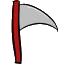
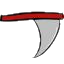
added scythe

diff --git a/js/player.js b/js/player.js
@@ -84,14 +84,19 @@ function buildInventory(i){
 		buttons.add(invButton1);
 	}
 	if(i[0][0] == 2){
-		var invButton2 = game.add.image(game.camera.width/2 - 140 + 265 + game.camera.x, game.camera.height - 60 + game.camera.y, 'corn');
+		var invButton2 = game.add.image(game.camera.width/2 - 140 + 265 + game.camera.x, game.camera.height - 60 + game.camera.y, 'cornPlant');
 		invButton2.scale.setTo(.4,.4);
 		buttons.add(invButton2);
-	}/* //etc, continue as needed
+	}
 	if(i[0][j] == 3){
-		var invButton3 = new Image(game, xplace, yplace, 'pumpSeed');
+		var invButton3 = game.add.image(game.camera.width/2 - 140 + 265 + game.camera.x, game.camera.height - 60 + game.camera.y, 'pumpkinPlant');
+		invButton3.scale.setTo(.4,.4);
 		buttons.add(invButton3);
-	}*/
+	}
+	if(i[0][j] == 4){
+		var invButton4 = game.add.image(game.camera.width/2 - 140 + 265 + game.camera.x, game.camera.height - 60 + game.camera.y, 'scythe');
+		buttons.add(invButton3);
+	}
     for(var j = 1;j<10;j++){
 		if(i[0][j] == 1){
 			var invButton1 = game.add.image(game.camera.width/2 - 140 + 26.5*j + game.camera.x, game.camera.height - 60 + game.camera.y, 'scythe');
@@ -99,14 +104,20 @@ function buildInventory(i){
 			buttons.add(invButton1);
 		}
 		if(i[0][j] == 2){
-			var invButton2 = game.add.image(game.camera.width/2 - 140 + 26.5*j + game.camera.x, game.camera.height - 60 + game.camera.y, 'corn');
+			var invButton2 = game.add.image(game.camera.width/2 - 140 + 26.5*j + game.camera.x, game.camera.height - 60 + game.camera.y, 'cornPlant');
 			invButton2.scale.setTo(.4,.4);
 			buttons.add(invButton2);
-		}/*
+		}
 		if(i[0][j] == 3){
-			var invButton3 = new Image(game, xplace, yplace, 'pumpSeed');
+			var invButton3 = game.add.image(game.camera.width/2 - 140 + 26.5*j + game.camera.x, game.camera.height - 60 + game.camera.y, 'pumpkinPlant');
+			invButton3.scale.setTo(.4,.4);
 			buttons.add(invButton3);
-		}*/
+		}
+		if(i[0][j] == 4){
+			var invButton4 = game.add.image(game.camera.width/2 - 140 + 26.5*j + game.camera.x, game.camera.height - 60 + game.camera.y, 'scythe');
+			invButton4.scale.setTo(.4,.4);
+			buttons.add(invButton4);
+		}
 	}
 	var inventoryText = i[1][1]+'      '+i[1][2]+'      '+i[1][3]+'      '+i[1][4]+'      '+i[1][5]+'      '+i[1][6]+'      '+i[1][7]+'      '+i[1][8]+'      '+i[1][9]+'      '+i[1][0];
     inventoryUI = game.add.text(game.camera.width/2 - 110 + game.camera.x, game.camera.height - 30 + game.camera.y, inventoryText, { font: '12px Arial', fill: '#fff' });

diff --git a/js/main.js b/js/main.js
@@ -179,7 +179,7 @@ Game.townstate.prototype = {
 		game.load.image('player', 'assets/player.png');
 		game.load.image('scarecrow', 'assets/scarecrow.png');
 		game.load.image('crow', 'assets/crow.png');
-		game.load.image('pumpkin', 'assets/pumkinDrop.png');
+		game.load.image('pumpkin', 'assets/pumpkinDrop.png');
 		game.load.image('cornPlant', 'assets/cornPlant.png');
 		game.load.image('horseman', 'assets/horselessHeadman.png');
 		game.load.image('pumpkinPlant', 'assets/pumpkinPlant.png');
@@ -203,12 +203,13 @@ Game.townstate.prototype = {
 		player = new Player(game, town, 200, 200);
 		gardenTime = 0;
 		I = new Item(game, 600, 210, 'yellow', false, 1, 1);
-		J = new Item(game, 400, 270, 'green', false, 2, 2);
-		J = new Item(game, 400, 270, 'green', false, 2, 2);
-		J = new Item(game, 400, 270, 'green', false, 2, 2);
-		J = new Item(game, 400, 270, 'green', false, 2, 2);
-		J = new Item(game, 400, 270, 'green', false, 2, 2);
-		K = new Item(game, 200, 300, 'magenta', false, 3, 3);
+		J = new Item(game, 400, 270, 'corn', false, 2, 2);
+		J = new Item(game, 400, 270, 'corn', false, 2, 2);
+		J = new Item(game, 400, 270, 'corn', false, 2, 2);
+		J = new Item(game, 400, 270, 'corn', false, 2, 2);
+		J = new Item(game, 400, 270, 'corn', false, 2, 2);
+		K = new Item(game, 200, 300, 'pumpkin', false, 3, 3);
+		K = new Item(game, 250, 250, 'scythe', false, 4, 4);
 		shop = new Shop(game, 400, 200, 'blue', [[1, 2, 3], [5, 10, 20]]);
 	},
 

diff --git a/js/playerProjectiles/scythe.js b/js/playerProjectiles/scythe.js
@@ -1,27 +1,34 @@
 //Scythe.js
 Scythe.prototype = Object.create(Proj.prototype);
 Scythe.prototype.constructor = Scythe;
-Scythe.prototype.moveSpeed = 2;
-Scythe.prototype.lifetime = .5;
+Scythe.prototype.moveSpeed = 0;
+Scythe.prototype.lifetime = 0.2;
 Scythe.prototype.damage = 5;
-Scythe.prototype.size = 10;
+Scythe.prototype.size = 1;
 Scythe.prototype.angle = 0;
 Scythe.prototype.isHoming = 0;
 Scythe.prototype.isPlayers = 1;
-Proj.prototype.key = 'blue';
-Proj.prototype.tag = "Scythe";
-
-function Scythe(game, x, y) {
-	Phaser.Sprite.call(this, game, x, y, key);
-	this.anchor.set(0.5, 0.5);
+Scythe.prototype.key = 'scythe';
+Scythe.prototype.tag = "Scythe";
+var isScythe = false;
+function Scythe(game) {
+	isScythe = true;
+	Phaser.Sprite.call(this, game, player.body.x, player.body.y, this.key);
 	game.physics.arcade.enable(this);
+	this.anchor.set(0.5, 1);
 	projectiles.add(this);
-	this.scale.set(size,size);
+	this.scale.set(this.size,this.size);
+	this.angle = player.angle;
 }
 
 
-Scythe.prototype.move() {
+Scythe.prototype.move = function() {
+	this.body.x = player.body.x;
+	this.body.y = player.body.y;
+	this.angle += 3;
+}
 
-	
-
+Scythe.prototype.end = function(){
+	isScythe = false;
+	this.destroy();
 }

diff --git a/js/item.js b/js/item.js
@@ -74,21 +74,8 @@ function useItem(itemNum, inv_slot){
 		plantPlant(currField, inv_slot, Corn);
 	if (itemNum == 3)
 		plantPlant(currField, inv_slot, Pumpkin);
-
-
-	/*
-		//Scythe
-		case 2: 
-			useScythe();
-			break;
-		//Gun: useGun(1) = basic gun, useGun(2) = more advanced, etc.
-		case 3: 
-			useGun(1);
-			break;
-		case 4: 
-			useGun(2);
-			break;
-			*/
+	if (itemNum == 4)
+		useScythe();
 }
 
 function useShovel(field) {
@@ -107,6 +94,11 @@ function useShovel(field) {
 	if( ((mouseX > playerX && playerX+96>mouseX) || (mouseX < playerX && playerX-96<mouseX)) && ((mouseY > playerY && playerY+96>mouseY) || (mouseY<playerY && playerY-96<mouseY))) {
 		field.add(Plant, 0, x, y);
 	}
+}
+
+function useScythe(){
+	if(!isScythe)
+		var scythe = projectiles.add(new Scythe(game));
 }
 
 function plantPlant(field, inv_slot, plant) {

diff --git a/index.html b/index.html
@@ -10,6 +10,7 @@
     <script type = "text/javascript" src = "js/player.js"></script>
     <script type = "text/javascript" src = "js/field.js"></script>
     <script type = "text/javascript" src = "js/plants/projectile.js"></script>
+    <script type = "text/javascript" src = "js/playerProjectiles/scythe.js"></script>
     <script type = "text/javascript" src = "js/plants/example/exampleProjectile.js"></script>
 
     <script type = "text/javascript" src = "js/plants/mob.js"></script>

diff --git a/js/plants/projectile.js b/js/plants/projectile.js
@@ -35,10 +35,14 @@ Proj.prototype.update = function(farm, time) {
 	this.move();
 
 	if(this.lifetime <= 0) {
-		this.destroy();
+		this.end();
 	}
 	this.lifetime -= game.time.elapsed/1000;
 
+}
+
+roj.prototype.end = function() {
+	this.destroy();
 }
 
 

diff --git a/js/plants/pumpkin/horseman.js b/js/plants/pumpkin/horseman.js
@@ -17,6 +17,7 @@ Horseman.prototype.charge = false;
 function Horseman(game, x, y){
 	Phaser.Sprite.call(this, game, x, y, this.key)
 	this.anchor.set(0.5, 0.5);
+	this.scale.set(2, 2);
 	game.physics.arcade.enable(this);
 	game.add.existing(this);
 }
